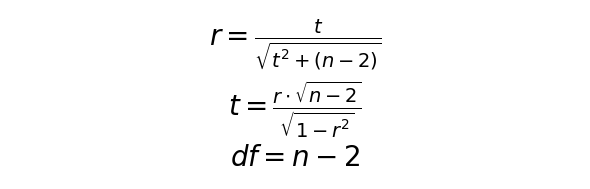
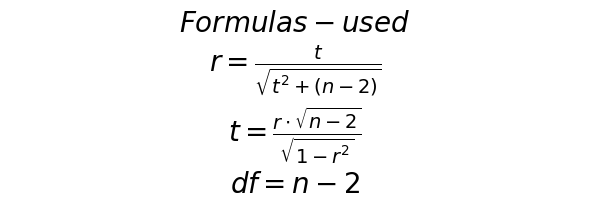
'Final commit before release'

Changed region(s): [[0.3051, 0.0529, 0.7017, 0.9524]]

diff --git a/demo/critical_r_value_app_future_improvement.py b/demo/critical_r_value_app_future_improvement.py
@@ -4,6 +4,7 @@ from matplotlib.backends.backend_tkagg import FigureCanvasTkAgg
 import matplotlib.pyplot as plt
 from scipy.stats import t
 import numpy as np
+from PIL import Image, ImageTk
 
 def calculate_r_critical(alpha, n):
     df = n - 2
@@ -27,11 +28,11 @@ def calculate_and_plot():
         ax.plot(n_vals, r_vals, label='r_critical vs n', color='green')
         ax.axhline(y=r_critical, color='red', linestyle='--', label=f'+r_critical = {r_critical:.3f}')
         ax.axhline(y=-r_critical, color='blue', linestyle='--', label=f'-r_critical = {-r_critical:.3f}')
-        ax.set_xlabel('Sample Size (n)', fontsize=24)
-        ax.set_ylabel('Critical r-value', fontsize=24)
-        ax.set_title('Critical r-value vs Sample Size', fontsize=28)
+        ax.set_xlabel('Sample Size (n)')
+        ax.set_ylabel('Critical r-value')
+        ax.set_title('Critical r-value vs Sample Size')
         ax.set_ylim(-1, 1)
-        ax.legend(fontsize=16)
+        ax.legend()
         canvas.draw()
 
         calc_summary.config(text=f"""n = {n}
@@ -50,20 +51,25 @@ def save_plot():
         fig.savefig(file_path)
         messagebox.showinfo("Saved", f"Plot saved to:\n{file_path}")
 
-# def exit_app():
-#     root.protocol("WM_DELETE_WINDOW", exit_app)# to handle window close event the line to use later
-#     # root.quit()  # Uncomment this line if you want to close the app when the window is closed
-#     # root.destroy()  # Uncomment this line if you want to destroy the app when the window is closed
-#   #  root.quit()
-#     root.destroy()
-
 def exit_app():
     root.destroy()
 
-    root.protocol("WM_DELETE_WINDOW", exit_app)
+def render_formula_image(filename="formulas.png"):
+    fig, ax = plt.subplots(figsize=(6, 2))
+    ax.axis('off')
+    formula = (
+        r"$ Formulas-used$" "\n"
+        r"$r = \frac{t}{\sqrt{t^2 + (n - 2)}}$" "\n"
+        r"$t = \frac{r \cdot \sqrt{n - 2}}{\sqrt{1 - r^2}}$" "\n"
+        r"$df = n - 2$"
+    )
+    ax.text(0.5, 0.5, formula, fontsize=20, ha='center', va='center', multialignment='center')
+    fig.tight_layout()
+    fig.savefig(filename, bbox_inches='tight')
+    plt.close(fig)
+    return filename
 
-
-
+# GUI setup
 root = tk.Tk()
 root.title("Critical r-value Calculator and Visualizer AJ")
 root.geometry("2400x1800")
@@ -71,26 +77,30 @@ root.geometry("2400x1800")
 try:
     root.iconbitmap("app_icon.ico")
 except Exception:
-    pass  # Ignore missing icon
+    pass
+
+root.protocol("WM_DELETE_WINDOW", exit_app)
 
 top_frame = tk.Frame(root, bg="#e6f0ff", padx=10, pady=5)
 top_frame.pack(fill=tk.X)
 
-tk.Label(top_frame, text="Significance Level (α):", bg="#e6f0ff", font=("Arial", 24)).pack(side=tk.LEFT)
-entry_alpha = tk.Entry(top_frame, width=6, font=("Arial", 24))
+font_large = ("Arial", 18)
+
+tk.Label(top_frame, text="Significance Level (α):", bg="#e6f0ff", font=font_large).pack(side=tk.LEFT)
+entry_alpha = tk.Entry(top_frame, width=6, font=font_large)
 entry_alpha.insert(0, "0.05")
 entry_alpha.pack(side=tk.LEFT, padx=(0, 15))
 
-tk.Label(top_frame, text="Sample Size (n):", bg="#e6f0ff", font=("Arial", 24)).pack(side=tk.LEFT)
-entry_n = tk.Entry(top_frame, width=6, font=("Arial", 24))
+tk.Label(top_frame, text="Sample Size (n):", bg="#e6f0ff", font=font_large).pack(side=tk.LEFT)
+entry_n = tk.Entry(top_frame, width=6, font=font_large)
 entry_n.insert(0, "14")
 entry_n.pack(side=tk.LEFT, padx=(0, 15))
 
-tk.Button(top_frame, text="Calculate & Plot", command=calculate_and_plot, bg="#007acc", fg="white", font=("Arial", 24, "bold")).pack(side=tk.LEFT, padx=5)
-tk.Button(top_frame, text="💾 Save Plot", command=save_plot, bg="#28a745", fg="white", font=("Arial", 24, "bold")).pack(side=tk.LEFT, padx=5)
-tk.Button(top_frame, text="❌ Exit", command=exit_app, bg="#cc0000", fg="white", font=("Arial", 24, "bold")).pack(side=tk.LEFT, padx=5)
+tk.Button(top_frame, text="Calculate & Plot", command=calculate_and_plot, bg="#007acc", fg="white", font=font_large).pack(side=tk.LEFT, padx=5)
+tk.Button(top_frame, text="💾 Save Plot", command=save_plot, bg="#28a745", fg="white", font=font_large).pack(side=tk.LEFT, padx=5)
+tk.Button(top_frame, text="Exit", command=exit_app, bg="#dc3545", fg="white", font=font_large).pack(side=tk.RIGHT, padx=5)
 
-result_label = tk.Label(root, text="Critical r-value (±): ", font=("Arial", 26, "bold"))
+result_label = tk.Label(root, text="Critical r-value (±): ", font=("Arial", 18, "bold"))
 result_label.pack(pady=5)
 
 main_frame = tk.Frame(root)
@@ -103,49 +113,28 @@ fig, ax = plt.subplots(figsize=(7, 5))
 canvas = FigureCanvasTkAgg(fig, master=left_panel)
 canvas.get_tk_widget().pack(fill=tk.BOTH, expand=True)
 
-right_panel = tk.Frame(main_frame, bg="#f0f6ff", width=820, padx=50)
+right_panel = tk.Frame(main_frame, bg="#f0f6ff", width=350, padx=10)
 right_panel.pack(side=tk.RIGHT, fill=tk.Y)
 right_panel.pack_propagate(0)
 
-tk.Label(
-    right_panel,
-    text="🧮 Calculation Summary",
-    font=("Helvetica", 27, "bold"),
-    bg="#f0f6ff",
-    fg="#003366"
-).pack(pady=(5, 2))
-
-calc_summary = tk.Label(
-    right_panel,
-    text="",
-    bg="#f0f6ff",
-    justify="left",
-    font=("Courier", 22)
-)
+tk.Label(right_panel, text="🧮 Calculation Summary", font=("Helvetica", 16, "bold"), bg="#f0f6ff", fg="#003366").pack(pady=(5, 2))
+calc_summary = tk.Label(right_panel, text="", bg="#f0f6ff", justify="left", font=("Courier", 14))
 calc_summary.pack(pady=(0, 10), padx=5, anchor="w")
 
-tk.Label(
-    right_panel,
-    text="📘 About This App",
-    font=("Helvetica", 27, "bold"),
-    bg="#f0f6ff",
-    fg="#003366"
-).pack(pady=(5, 2))
+tk.Label(right_panel, text="📚 About This App", font=("Helvetica", 16, "bold"), bg="#f0f6ff", fg="#003366").pack(pady=(5, 2))
+
+# Render and load the formula image
+render_formula_image()
+formula_image = Image.open("formulas.png")
+formula_photo = ImageTk.PhotoImage(formula_image)
 
 formula_block = tk.Label(
     right_panel,
-    text=(
-        "Formulas Used:\n"
-        "  r = t / sqrt(t² + (n-2))\n"
-        "  t = r*sqrt(n-2) / sqrt(1-r²)\n"
-        "  df = n-2"
-    ),
-    bg="#f0f6ff",
-    justify="left",
-    font=("Courier", 20),
-    fg="#2c3e50"
+    image=formula_photo,
+    bg="#f0f6ff"
 )
-formula_block.pack(pady=(0, 8), padx=5, anchor="w")
+formula_block.image = formula_photo
+formula_block.pack(pady=(0, 8), padx=5, anchor="center")
 
 legend = tk.Label(
     right_panel,
@@ -162,16 +151,10 @@ legend = tk.Label(
     ),
     bg="#f0f6ff",
     justify="left",
-    font=("Helvetica", 21),
+    font=("Helvetica", 14),
     wraplength=860,
     anchor="w"
 )
 legend.pack(pady=(0, 10), padx=5, fill=tk.BOTH)
 
 root.mainloop()
-
-
-# The size of the right panel is controlled by the `width` parameter in the `right_panel` Frame.
-# You can adjust the width of the right panel by modifying the `width` value below:
-
-#right_panel = tk.Frame(main_frame, bg="#f0f6ff", width=420, padx=10)
